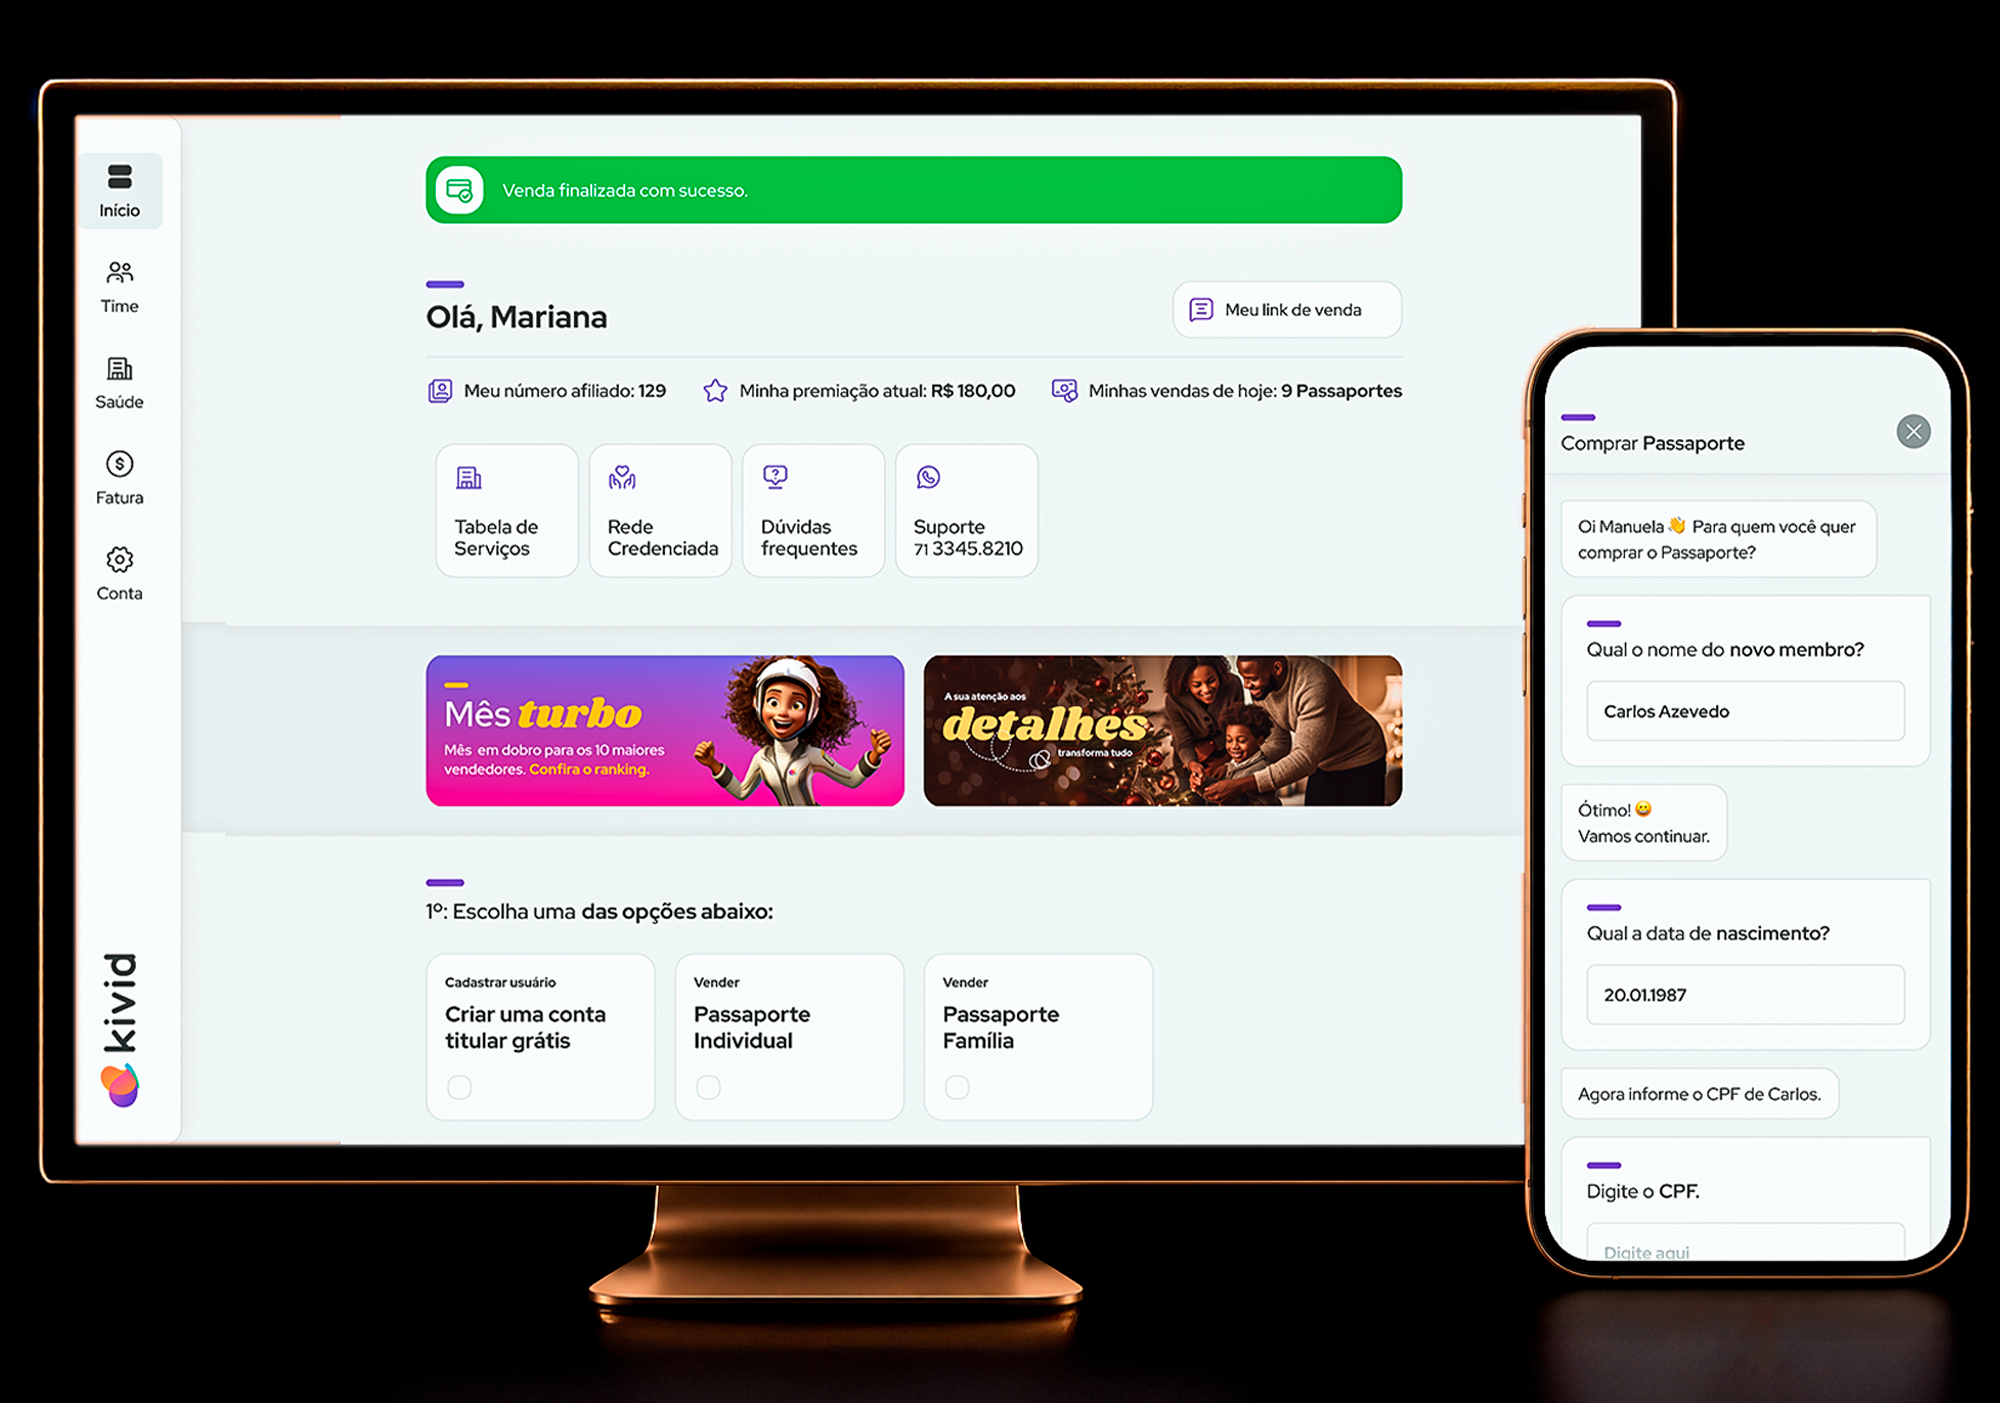
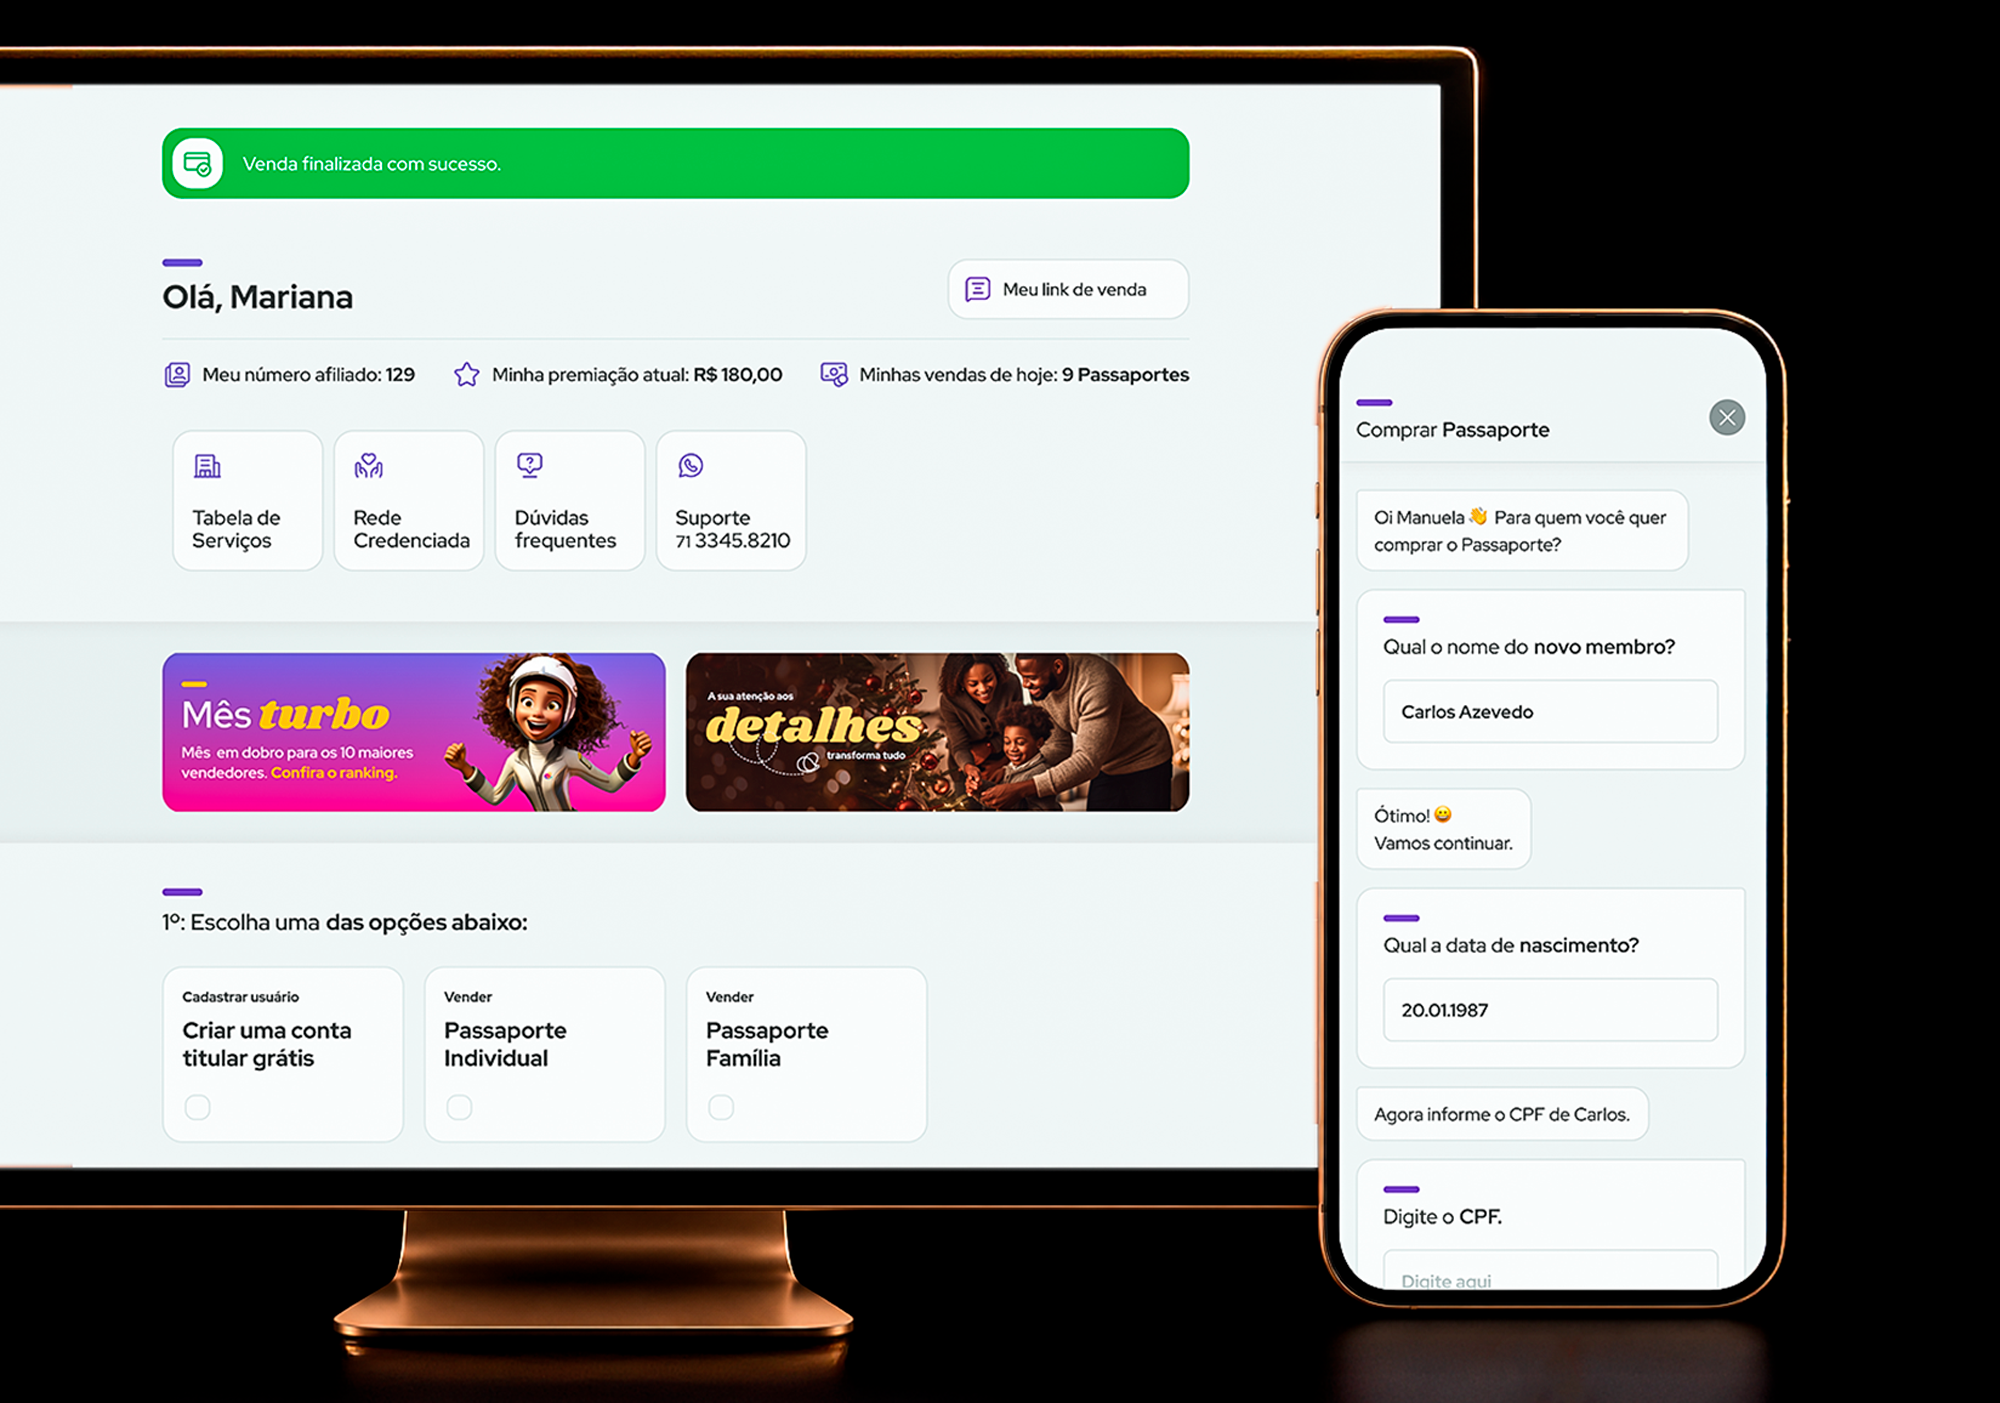
Remove pulo das imagens e reforça efeito de chegada deslizando

diff --git a/style.css b/style.css
@@ -327,8 +327,6 @@ img { display:block; max-width:100%; }
   display:block; transition:transform .6s var(--ease);
   transform:translateY(var(--pc-parallax,0px)) scale(1);
 }
-.reveal .pc-img img { transform:translateY(var(--pc-parallax,0px)) scale(1.25); transition:transform 1.3s cubic-bezier(.16,1,.3,1); }
-.reveal.visible .pc-img img { transform:translateY(var(--pc-parallax,0px)) scale(1); }
 .pc:hover .pc-img img { transform:translateY(var(--pc-parallax,0px)) scale(1.04); }
 .pc-img-ph {
   position:absolute; inset:0;
@@ -550,13 +548,13 @@ img { display:block; max-width:100%; }
 .fbtn-hi:hover { opacity:.85; color:var(--c-bg); }
 
 /* ── REVEAL ── */
-.reveal { opacity:0; transform:translateY(32px) scale(.94); transition:opacity 1s var(--ease), transform 1s var(--ease); }
+.reveal { opacity:0; transform:translateY(64px); transition:opacity 1.1s var(--ease), transform 1.1s var(--ease); }
 .projects-grid .pc:nth-of-type(1) { transition-delay:0s; }
-.projects-grid .pc:nth-of-type(2) { transition-delay:.12s; }
-.projects-grid .pc:nth-of-type(3) { transition-delay:.06s; }
-.projects-grid .pc:nth-of-type(4) { transition-delay:.18s; }
-.projects-grid .pc:nth-of-type(5) { transition-delay:.06s; }
-.projects-grid .pc:nth-of-type(6) { transition-delay:.18s; }
+.projects-grid .pc:nth-of-type(2) { transition-delay:.25s; }
+.projects-grid .pc:nth-of-type(3) { transition-delay:.1s; }
+.projects-grid .pc:nth-of-type(4) { transition-delay:.35s; }
+.projects-grid .pc:nth-of-type(5) { transition-delay:.1s; }
+.projects-grid .pc:nth-of-type(6) { transition-delay:.35s; }
 .reveal.visible { opacity:1; transform:translateY(0) scale(1); }
 .reveal.d1 { transition-delay:.08s; }
 .reveal.d2 { transition-delay:.16s; }
